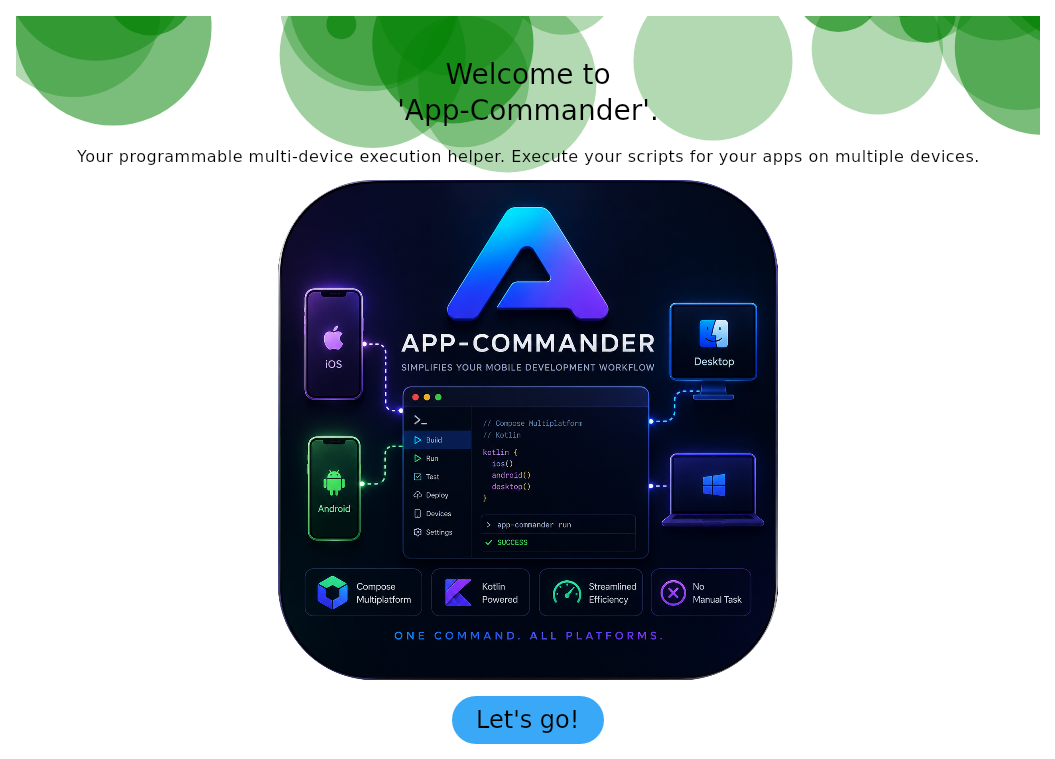
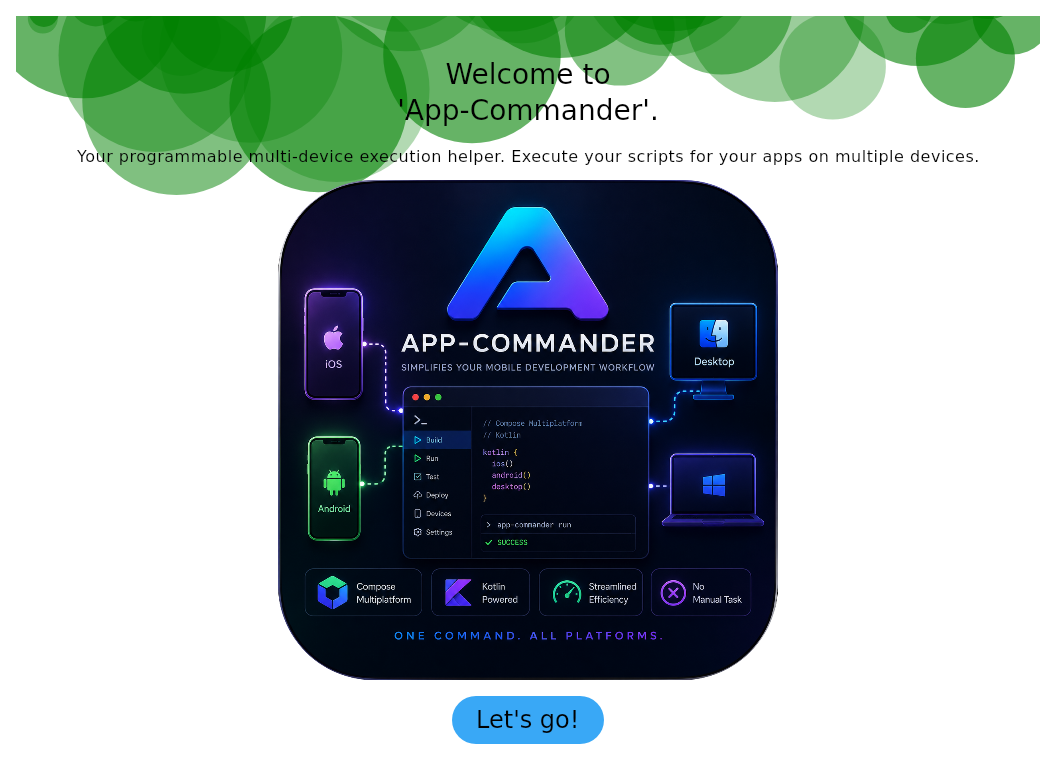
Auto commit screenshots (#116)
* test lint

* Fix/Improve

* Fix/Improve

* Fix git push command in PR check workflow

* Fix indentation and formatting in PR check workflow

* Update pr_check.yml

* Add write permissions to PR check workflow

* Add git pull before committing changes in PR check

* Update git push command in PR check workflow

* Update pr_check.yml

* Rename commit step and change branch handling

* Update pr_check.yml

* Fix git checkout command in PR check workflow

* Add auto-commit step for lint and screenshot updates

Added a step to automatically commit and push lint formatting and screenshot changes using git-auto-commit-action.

* Update pr_check.yml

* ci: apply lint formatting and update screenshots

* Update pr_check.yml

* test pr

* ci: apply lint formatting and update screenshots

* Delete sharedCode/src/commonTest/kotlin/de/joz/appcommander/e2e/screenshots/e2e_2_scripts_main_diff.png

* Update pr_check.yml

* revert

* Update pr_check.yml

* Fix/Improve

* ci: apply lint formatting and update screenshots

* Update pr_check.yml

---------

Changed region(s): [[0.0, 0.0, 1.0, 0.2727]]

diff --git a/sharedCode/src/commonTest/kotlin/de/joz/appcommander/ui/e2e/EndToEndTest.kt b/sharedCode/src/commonTest/kotlin/de/joz/appcommander/ui/e2e/EndToEndTest.kt
@@ -1,4 +1,4 @@
-package de.joz.appcommander.e2e
+package de.joz.appcommander.ui.e2e
 
 import androidx.compose.ui.test.ComposeUiTest
 import androidx.compose.ui.test.ExperimentalTestApi
